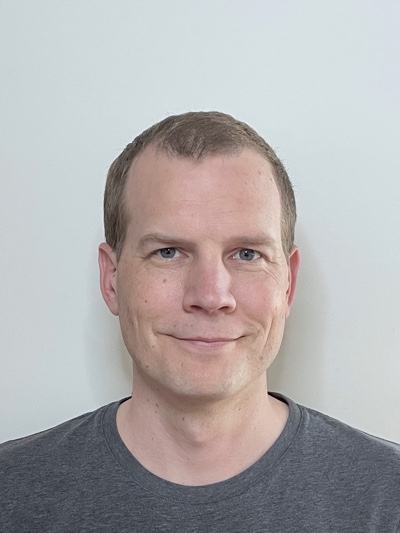
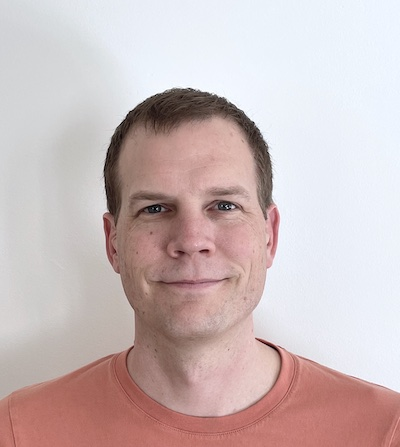
New 2022 pic for homepage

diff --git a/source/_includes/aarone.css b/source/_includes/aarone.css
@@ -33,7 +33,7 @@ img#aaron {
 
 h2 {
     font-weight: 400;
-    margin-bottom: 0.5em;
+    margin-bottom: 2em;
 }
 
 ul {
